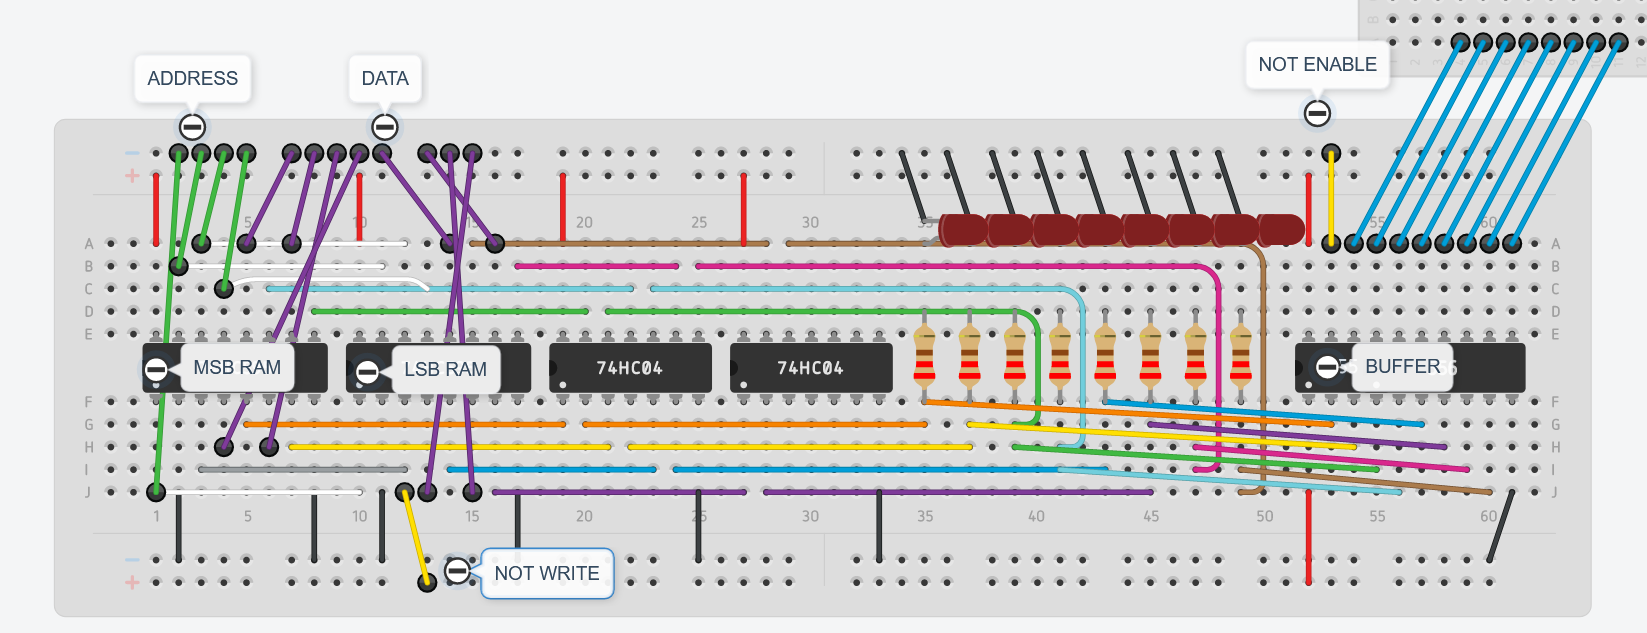
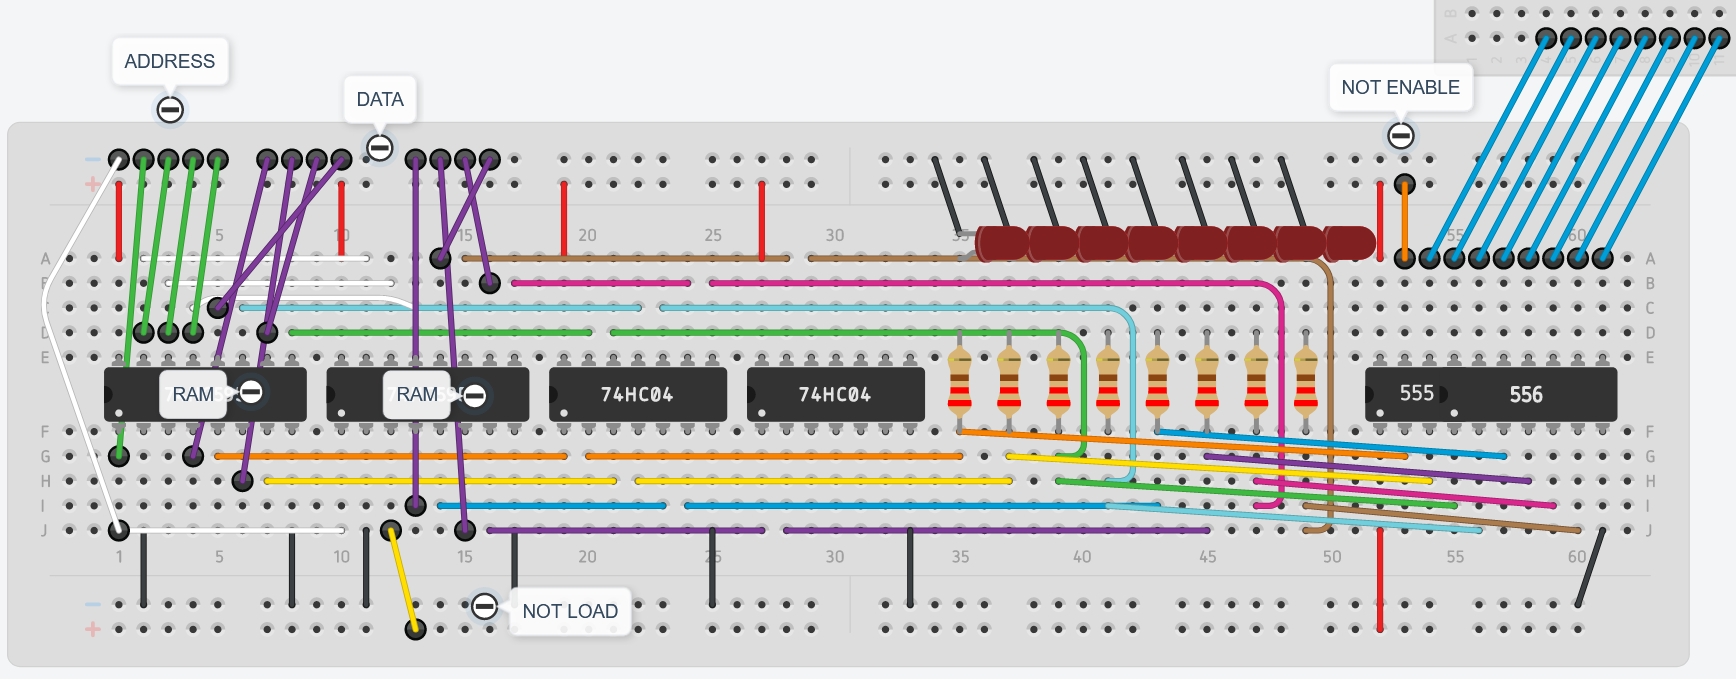
chad

Changed region(s): [[0.0, 0.0, 1.0, 0.9905]]

diff --git a/_posts/2021-06-26-8-bit-computer.md b/_posts/2021-06-26-8-bit-computer.md
@@ -71,7 +71,10 @@ tags: project
     - [74LS189 (16 4-word address RAM)](#74ls189-16-4-word-address-ram)
     - [Building the RAM](#building-the-ram)
       - [Fixing the outputs and merging signal pins](#fixing-the-outputs-and-merging-signal-pins)
-      - [Replacing hookup wires for switches](#replacing-hookup-wires-for-switches)
+    - [Building the memory access register (and a "programming mode" version)](#building-the-memory-access-register-and-a-programming-mode-version)
+    - [Building an 8-bit input terminal for the RAM (to manually store a program)](#building-an-8-bit-input-terminal-for-the-ram-to-manually-store-a-program)
+    - [Relabeling jumperwire signals](#relabeling-jumperwire-signals)
+    - [todo before program counter](#todo-before-program-counter)
   - [Program counter (PC)](#program-counter-pc)
 
 ## Introduction
@@ -119,8 +122,8 @@ We will be using a 5V (volt) power source, which Ben has crafted by cutting off 
   * Resistors don't have polarity
 * Jumper wires:
   * Long flexible wires are convinient for simple circuits but will spagetti-like mess up complex circuits
-  * Pre-cut jump wires have predefined lengths which limit customization
-  * hookup wire and wire strippers to make your own jumper wires:
+  * Pre-cut wires have predefined lengths which limit customization
+  * hookup wire and wire strippers to make your own wires:
     * Make sure to buy solid-core wire and not stranded wire as the latter is made up of multiple individual strands which makes the ends much harder to push into a breadboard
     * As a last resort if stranded wired cannot be solded it can be twisted to increase its tightness.
     * To leave enough space for bending the wires and plug them into the board leave a room of 3 more wholes.
@@ -666,7 +669,7 @@ Datasheet recomends:
        * \\(\text{Buffer}_B A_2\ (pin\ 3) = \text{left XOR input } 3B\\)
        * \\(\text{Buffer}_B A_1\ (pin\ 2) = \text{left XOR input } 4B\\)
   6. Connect all other inputs of the gates together (A inputs), as well as the "carry in" of the least significant adder (right C0)
-     * Connect a hookup cable connected to these conections to either \\(V_{cc}\\) or ground (this is our subtract signal)  
+     * Connect a jumper wire connected to these conections to either \\(V_{cc}\\) or ground (this is our subtract signal)  
   7. Connect outputs of XOR gates to adders \\(B_n\\):
      * Remember to pair whichever XOR gate had Buffer B1 as an input with the MSB (left) adder B4 pin, etc.:
        * \\(\text{left XOR output 1} = \text{LSB adder (right) input } B_1\ (pin\ 6)\\)
@@ -677,7 +680,7 @@ Datasheet recomends:
        * \\(\text{left XOR output 2} = \text{MSB adder (left) input } B_2\ (pin\ 2)\\)
        * \\(\text{left XOR output 3} = \text{MSB adder (left) input } B_3\ (pin\ 15)\\)
        * \\(\text{left XOR output 4} = \text{MSB adder (left) input } B_4\ (pin\ 11)\\)
-  8. Connect enable hookup cable for the tri-state buffer 
+  8. Connect enable jumper wire for the tri-state buffer 
   9.  Set the direction pin of the tri-state buffer high
   10. Connect the output of the tristate buffer of the ALU to the BUS
   11. Optional: hookup LEDs to the tristate buffer inputs of the ALU
@@ -800,7 +803,7 @@ Open [tinkercad](https://www.tinkercad.com/things/4PaTMquHAzK-8-bit-alu-sum-and-
 * With a decoder the total number of address selection pins required is \\(log_2(\text{total address count}\\)), i.e. (the 16th address, starting at 1st address = 0000, would be 1111)
 ![404]({{ site.url }}/images/8bit/ram/decoder1.PNG)
 ![404]({{ site.url }}/images/8bit/ram/decoder2.PNG)
-* Do not confuse a decoder with a multiplexer. The multpilexer has \\(n\\) selection inputs with at most \\(2^n\\) data inputs for which then the multiplexer outputs just 1 of the data inputs (looks like a decoder with a final OR gate to just have 1 output line. It also looks to make sense in circuits where the data signal is sinusodial)
+* Do not confuse a decoder with a multiplexer. The multpilexer has \\(n\\) selection inputs with at most \\(2^n\\) data inputs for which then the multiplexer outputs just 1 of the data inputs (looks like a decoder with a final OR gate to just have 1 output line)
 ![404]({{ site.url }}/images/8bit/ram/mux.PNG)
 ![404]({{ site.url }}/images/8bit/ram/mux2.PNG)
 * The decoder on the other hand has n inputs and at most (and generally close to) \\(2^n\\) outputs
@@ -838,15 +841,33 @@ Open [tinkercad](https://www.tinkercad.com/things/4PaTMquHAzK-8-bit-alu-sum-and-
 5. Insert 3-state buffer and connect power, ground and dir (to \\(V_{cc}\\)) pins
 6. Connect inverted-inverted outputs to the tri-state bottom pins
 7. Connect same address pins together from both RAMs
-  * Then use a hookup cable for each grouped address pin and connect it to ground as a temporary signal cable
-8. Connect hookup wires to each data pin as a temporary signal (later it will be connected to the DIP switches rather than to the BUS)
-9. Connect both \\(\overline{WE}\\) pins together and a hookup cable to use it as temporary signal
+  * Then use a jumper wire for each grouped address pin and connect it to ground as a temporary signal cable
+8. Connect jumper wires to each data pin as a temporary signal (later it will be connected to the DIP switches rather than to the BUS)
+9. Connect both \\(\overline{WE}\\) pins together and a jumper wire to use it as temporary signal
 ![404]({{ site.url }}/images/8bit/ram/tinker1.PNG)
 Open [tinkercad](https://www.tinkercad.com/things/arn0aljUBhY-ram-p1)
 
-#### Replacing hookup wires for switches
+### Building the memory access register (and a "programming mode" version)
+1. The jumper wires for the address will be connected to the outputs of the memory address register, the register that contains the current location of the RAM we've readily available to use
+2. Remove the power rails of a new breadboard and fit it between the clock breadboard and the RAM breadboard
 
+### Building an 8-bit input terminal for the RAM (to manually store a program)
+1. Breadboard
+2. It's only enabled if the programing mode of the address register is enabled
+   1. We use a 2 data input MUX (with 1 select input) for each of the 8 bits that make up a word
+   2. One of the inputs is a bit from the BUS, the other input is a bit from the DIP switch
+   3. All selection pins (of all the bits) are merged and connected to the memory access register switch that toggles between "running mode" (BUS) and "programming mode" (switch)
+3. When we use the "running mode" BEN is loading the inputs from the tri-state buffer at the RAM module that connects to the BUS, and connects it to the B (xor A) inputs of the multiplexer that outputs the data inputs for the RAM. Those cables are long and go over already busy breadboard locations, it'd be easier to just connect it directly to the BUS (horizontal lines)
 
+### Relabeling jumperwire signals
+
+### todo before program counter
+* ram 
+* ir
+* labels
+* bus highway
+* move bus lights to the left of the program counter breadboard
+  * the pc chips will just be shifted to the right
 
 ## Program counter (PC)
 * Counts in binary to keep track of which instruction the computer is currently executing
